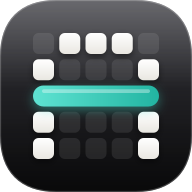
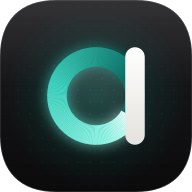
feat: swap the brand mark for C4 Aro
Replace the Grade A grid with the ring-and-stem glyph, and ship the kit favicon plus the PWA bitmaps, including maskable 192.

diff --git a/lib/brand/mark.ts b/lib/brand/mark.ts
@@ -1,107 +1,43 @@
 import { brandColors } from "@/lib/brand/colors";
 
 /**
- * Grade A, the only drawing of the symbol.
- * 0 empty, 1 cell, 2 the bar. Swap the logo by editing this grid
- * (and the metrics below), then run `node --experimental-strip-types --experimental-transform-types --import ./scripts/ts-register.mjs scripts/generate-brand-icons.ts`.
+ * C4 Aro, the UI glyph. ViewBox 24, drawn at 65.625% of the 32px tile
+ * (the same scale as the previous mark). Ring stroke is --pix-bright;
+ * the stem uses the tile foreground. Source: simbolo-glifo-24.svg.
  */
-export const GRADE_A_GRID = [
-  [0, 1, 1, 1, 0],
-  [1, 0, 0, 0, 1],
-  [2, 2, 2, 2, 2],
-  [1, 0, 0, 0, 1],
-  [1, 0, 0, 0, 1],
-] as const;
-
-export type MarkRect = { x: number; y: number; width: number; height: number; rx: number };
-
-export type MarkMetrics = {
-  viewBox: number;
-  origin: number;
-  cell: number;
-  gap: number;
-  cellRx: number;
-  barRx: number;
-  /** Pixels added on each horizontal side of the bar. */
-  barBleed: number;
-};
-
-/** Mark inside the UI tile: 24px grid, cell 4, gap 1. */
-export const uiMarkMetrics: MarkMetrics = {
+export const aroGlyph = {
   viewBox: 24,
-  origin: 0,
-  cell: 4,
-  gap: 1,
-  cellRx: 1,
-  barRx: 2,
-  barBleed: 0,
-};
+  ring: { cx: 12, cy: 12, r: 9.6, strokeWidth: 4.8 },
+  stem: { x: 19.2, y: 0, width: 4.8, height: 24, rx: 2.4 },
+} as const;
 
 /**
- * Same grid, snapped to the 16px favicon. The rounded square is the tile,
- * which the UI draws in CSS instead.
+ * Small-size favicon (viewBox 32). Solid ring and a thicker stroke,
+ * not a scale of the 24px glyph. Dark mode adds the tile edge.
+ * Source: kit favicon.svg. app/icon.svg must match renderFaviconSvg().
  */
-export const faviconMarkMetrics: MarkMetrics = {
-  viewBox: 16,
-  origin: 3,
-  cell: 2,
-  gap: 0,
-  cellRx: 0,
-  barRx: 0,
-  barBleed: 1,
-};
+const faviconTilePath =
+  "M9.38 0H22.62C28.62 0 32.00 3.38 32.00 9.38V22.62C32.00 28.62 28.62 32.00 22.62 32.00H9.38C3.38 32.00 0 28.62 0 22.62V9.38C0 3.38 3.38 0 9.38 0Z";
 
-/** Squircle baked into the 16px favicon. The UI tile uses CSS radius instead. */
-export const faviconTilePath =
-  "M4.69 0H11.31C14.31 0 16 1.69 16 4.69V11.31C16 14.31 14.31 16 11.31 16H4.69C1.69 16 0 14.31 0 11.31V4.69C0 1.69 1.69 0 4.69 0Z";
-
-/** Glossy kit rasters. They are not a flat redraw of the grid, so the generator does not overwrite them. */
+/** Kit rasters. The generator does not overwrite them. */
 export const brandIconFiles = {
   icon192: "/icon-192.png",
   icon512: "/icon-512.png",
+  maskable192: "/icon-maskable-192.png",
   maskable512: "/icon-maskable-512.png",
   icon512File: "public/icon-512.png",
 } as const;
 
-export function markRects(metrics: MarkMetrics): { cells: MarkRect[]; bar: MarkRect } {
-  const step = metrics.cell + metrics.gap;
-  const cells: MarkRect[] = [];
-  let bar: MarkRect | null = null;
-  for (let row = 0; row < GRADE_A_GRID.length; row += 1) {
-    const line = GRADE_A_GRID[row];
-    for (let col = 0; col < line.length; col += 1) {
-      if (line[col] !== 1) continue;
-      cells.push({
-        x: metrics.origin + col * step,
-        y: metrics.origin + row * step,
-        width: metrics.cell,
-        height: metrics.cell,
-        rx: metrics.cellRx,
-      });
-    }
-    if (bar || !line.some((cell) => cell === 2)) continue;
-    const span = line.length * metrics.cell + (line.length - 1) * metrics.gap;
-    bar = {
-      x: metrics.origin - metrics.barBleed,
-      y: metrics.origin + row * step,
-      width: span + metrics.barBleed * 2,
-      height: metrics.cell,
-      rx: metrics.barRx,
-    };
-  }
-  if (!bar) throw new Error("Grade A grid is missing the bar row");
-  return { cells, bar };
-}
-
 /** Byte-for-byte source of app/icon.svg. */
 export function renderFaviconSvg(): string {
-  const { cells, bar } = markRects(faviconMarkMetrics);
-  const rect = (node: MarkRect, fill: string) =>
-    `<rect x="${node.x}" y="${node.y}" width="${node.width}" height="${node.height}" fill="${fill}"/>`;
-  const body = [
-    `<path d="${faviconTilePath}" fill="${brandColors.ink}" shape-rendering="geometricPrecision"/>`,
-    ...cells.map((cell) => rect(cell, brandColors.paper)),
-    rect(bar, brandColors.pixBright),
-  ].join("\n");
-  return `<svg xmlns="http://www.w3.org/2000/svg" width="16" height="16" viewBox="0 0 16 16" fill="none" shape-rendering="crispEdges">\n${body}\n</svg>\n`;
+  return `<svg xmlns="http://www.w3.org/2000/svg" width="32" height="32" viewBox="0 0 32 32" fill="none" >
+<defs>
+<style>@media (prefers-color-scheme: dark){.rim{stroke-opacity:.22}}</style>
+</defs>
+<path d="${faviconTilePath}" fill="${brandColors.ink}"/>
+<path class="rim" d="${faviconTilePath}" stroke="#fff" stroke-opacity="0" stroke-width="1.00"/>
+<circle cx="16" cy="16.0" r="6" stroke="${brandColors.pixBright}" stroke-width="4"/>
+<rect x="20" y="8" width="4" height="16" rx="2.0" fill="${brandColors.paper}"/>
+</svg>
+`;
 }

diff --git a/components/ui/brand.tsx b/components/ui/brand.tsx
@@ -1,27 +1,22 @@
 import Link from "next/link";
-import { markRects, uiMarkMetrics } from "@/lib/brand/mark";
+import { aroGlyph } from "@/lib/brand/mark";
 import { cn } from "@/lib/utils";
 
-const uiMark = markRects(uiMarkMetrics);
-
 /**
- * Símbolo Grade A. A geometria vem de lib/brand/mark.ts.
- * crispEdges mantém o traço inteiro em 1x. A faixa usa o verde-água; as células seguem a cor do texto.
+ * Símbolo Aro. A geometria vem de lib/brand/mark.ts.
+ * O anel usa --pix-bright; a haste segue a cor do azulejo (currentColor).
  */
-function GradeAMark({ className }: { className?: string }) {
+function AroMark({ className }: { className?: string }) {
+  const { viewBox, ring, stem } = aroGlyph;
   return (
-    <svg viewBox={`0 0 ${uiMarkMetrics.viewBox} ${uiMarkMetrics.viewBox}`} aria-hidden="true" shapeRendering="crispEdges" className={className}>
-      <g fill="currentColor">
-        {uiMark.cells.map((cell) => (
-          <rect key={`${cell.x}-${cell.y}`} x={cell.x} y={cell.y} width={cell.width} height={cell.height} rx={cell.rx} />
-        ))}
-      </g>
-      <rect x={uiMark.bar.x} y={uiMark.bar.y} width={uiMark.bar.width} height={uiMark.bar.height} rx={uiMark.bar.rx} fill="currentColor" className="text-pix-bright" />
+    <svg viewBox={`0 0 ${viewBox} ${viewBox}`} aria-hidden="true" overflow="visible" className={className}>
+      <circle cx={ring.cx} cy={ring.cy} r={ring.r} fill="none" stroke="var(--pix-bright)" strokeWidth={ring.strokeWidth} />
+      <rect x={stem.x} y={stem.y} width={stem.width} height={stem.height} rx={stem.rx} fill="currentColor" />
     </svg>
   );
 }
 
-/** Quadrado de 32 px (raio 10/32). O mark ocupa 65,625% (21 px; razão 336/512 do icon.svg). */
+/** Quadrado de 32 px (raio 10). O glifo ocupa 65,625% (21 px), o mesmo encaixe de antes. */
 export function BrandMark({ className }: { className?: string }) {
   return (
     <span
@@ -31,7 +26,7 @@ export function BrandMark({ className }: { className?: string }) {
         className,
       )}
     >
-      <GradeAMark className="size-[65.625%]" />
+      <AroMark className="size-[65.625%]" />
     </span>
   );
 }

diff --git a/tests/unit/brand-mark.test.ts b/tests/unit/brand-mark.test.ts
@@ -1,29 +1,20 @@
 import { readFileSync } from "node:fs";
 import { resolve } from "node:path";
 import { describe, expect, it } from "vitest";
-import { brandIconFiles, markRects, renderFaviconSvg, uiMarkMetrics } from "@/lib/brand/mark";
+import { aroGlyph, brandIconFiles, renderFaviconSvg } from "@/lib/brand/mark";
 
 describe("brand mark source", () => {
-  it("places the UI mark on the 24px grid", () => {
-    const { cells, bar } = markRects(uiMarkMetrics);
-    expect(cells.map((cell) => [cell.x, cell.y])).toEqual([
-      [5, 0],
-      [10, 0],
-      [15, 0],
-      [0, 5],
-      [20, 5],
-      [0, 15],
-      [20, 15],
-      [0, 20],
-      [20, 20],
-    ]);
-    expect(bar).toEqual({ x: 0, y: 10, width: 24, height: 4, rx: 2 });
-    expect(cells.every((cell) => cell.width === 4 && cell.rx === 1)).toBe(true);
+  it("draws the Aro glyph on the 24px viewBox", () => {
+    expect(aroGlyph.viewBox).toBe(24);
+    expect(aroGlyph.ring).toEqual({ cx: 12, cy: 12, r: 9.6, strokeWidth: 4.8 });
+    expect(aroGlyph.stem).toEqual({ x: 19.2, y: 0, width: 4.8, height: 24, rx: 2.4 });
   });
 
-  it("keeps the glossy raster paths next to the grid", () => {
+  it("keeps the kit raster paths next to the glyph", () => {
     expect(brandIconFiles.icon512File).toBe("public/icon-512.png");
     expect(brandIconFiles.icon512).toBe("/icon-512.png");
+    expect(brandIconFiles.maskable192).toBe("/icon-maskable-192.png");
+    expect(brandIconFiles.maskable512).toBe("/icon-maskable-512.png");
   });
 
   it("renders the committed favicon svg", () => {

diff --git a/scripts/generate-brand-icons.ts b/scripts/generate-brand-icons.ts
@@ -3,12 +3,12 @@ import { resolve } from "node:path";
 import { renderFaviconSvg } from "@/lib/brand/mark";
 
 /**
- * Rewrites the crisp favicon SVG from lib/brand/mark.ts.
+ * Rewrites app/icon.svg from the small-size Aro favicon in lib/brand/mark.ts.
+ * That drawing is the kit favicon (solid ring, thicker stroke, dark tile edge).
+ * It is not a scaled copy of the 24px UI glyph.
  *
- * favicon.ico, apple-icon.png and the PWA PNGs stay as the approved rasters.
- * The glossy kit is not a flat redraw of the grid, and this repo has no encoder
- * that reproduces favicon.ico byte for byte. Overwriting them would change
- * pixels that are already design-approved.
+ * favicon.ico, apple-icon.png and the PWA PNGs stay as the kit rasters.
+ * This repo has no encoder that reproduces those files byte for byte.
  *
  * Run from the repo root:
  *   node --experimental-strip-types --experimental-transform-types --import ./scripts/ts-register.mjs scripts/generate-brand-icons.ts
@@ -16,4 +16,6 @@ import { renderFaviconSvg } from "@/lib/brand/mark";
 const target = resolve(process.cwd(), "app/icon.svg");
 writeFileSync(target, renderFaviconSvg());
 process.stdout.write(`Wrote ${target}\n`);
-process.stdout.write("Left untouched: app/favicon.ico, app/apple-icon.png, public/icon-192.png, public/icon-512.png, public/icon-maskable-512.png\n");
+process.stdout.write(
+  "Left untouched: app/favicon.ico, app/apple-icon.png, public/icon-192.png, public/icon-512.png, public/icon-maskable-192.png, public/icon-maskable-512.png\n",
+);

diff --git a/app/manifest.ts b/app/manifest.ts
@@ -17,6 +17,7 @@ export default function manifest(): MetadataRoute.Manifest {
     lang: "pt-BR",
     icons: [
       { src: brandIconFiles.icon192, sizes: "192x192", type: "image/png", purpose: "any" },
+      { src: brandIconFiles.maskable192, sizes: "192x192", type: "image/png", purpose: "maskable" },
       { src: brandIconFiles.icon512, sizes: "512x512", type: "image/png", purpose: "any" },
       { src: brandIconFiles.maskable512, sizes: "512x512", type: "image/png", purpose: "maskable" },
     ],
